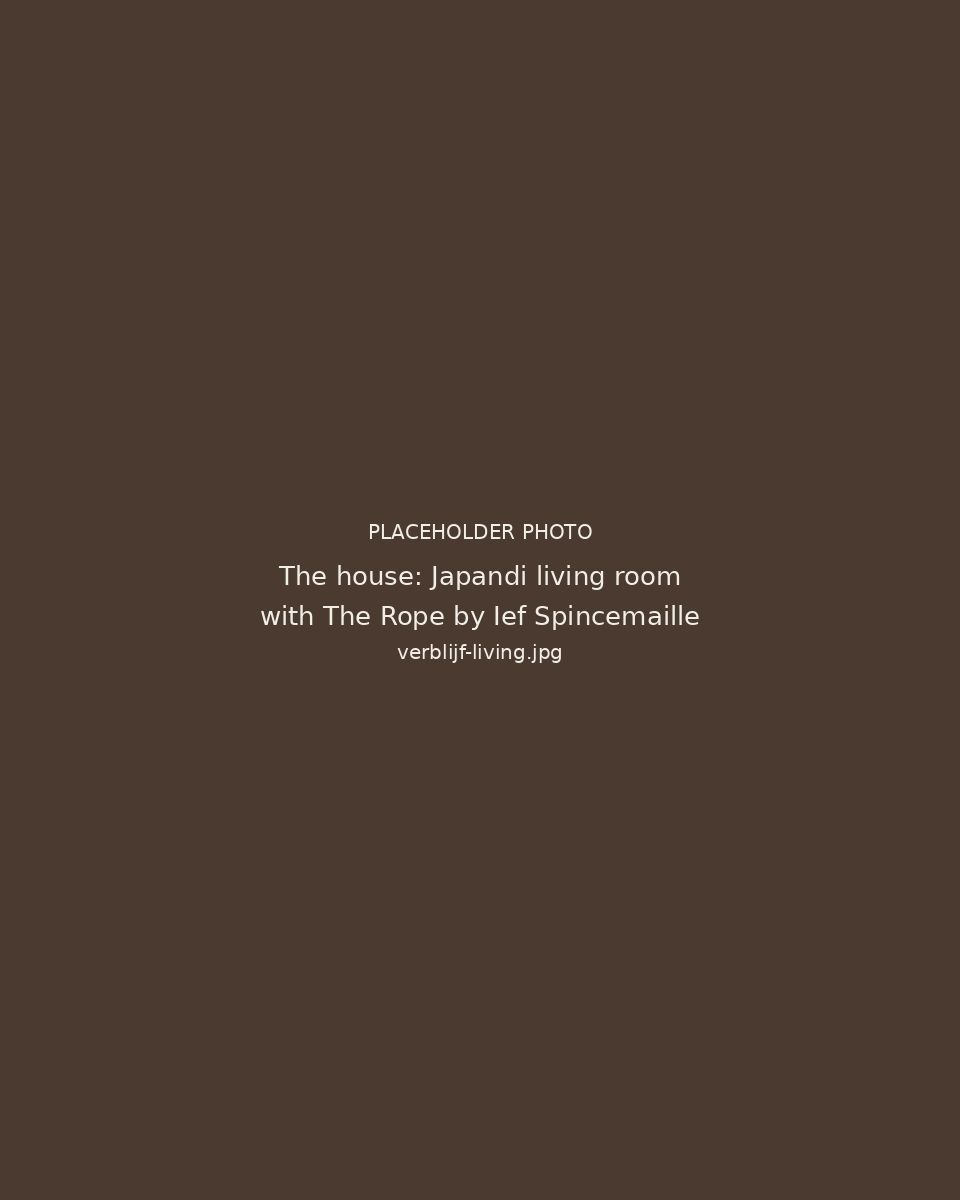
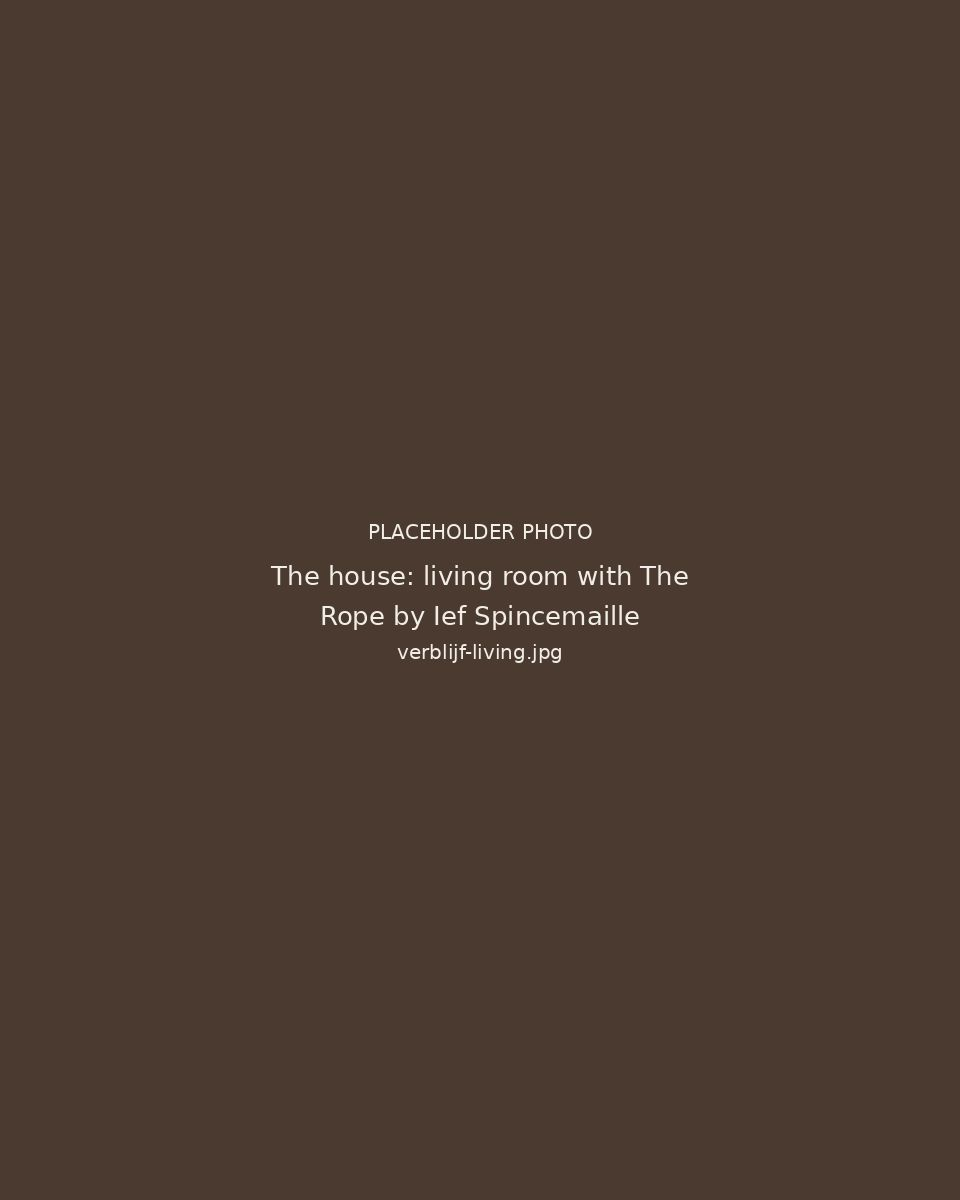
No.4 Lange Ast: regeleinden per zin, tekstschrapping in vier talen
- Eigen regel per zin(groep) op home, verblijf, dorpsleven, prijzen en contact
- Verwijderd: Japandi-interieur, opwarmtijden sauna en hottub, 'gedeeld met de eigenaars'
- Zelfde aanpassingen in EN, FR en DE

Claude-Session: https://claude.ai/code/session_01LRDJhq2EVm4Zn3FbmeFmoJ

Changed region(s): [[0.2812, 0.4625, 0.7188, 0.5242]]

diff --git a/no4-lange-ast/het-verblijf.html b/no4-lange-ast/het-verblijf.html
@@ -45,43 +45,55 @@
 
 <section class="section section--light">
   <div class="narrow">
-    <p class="lang-nl intro-text">No.4 Lange Ast is een vakantiehuis voor 8 personen, gelegen in het dorp Huise, tussen Gent en de Vlaamse Ardennen. Dit is geen afgelegen verblijf in de natuur, maar een huis midden in een dorp. Je verblijft hier tussen het dagelijkse leven: het kerkplein, wandelaars, fietsers en het ritme van het dorp. Het huis zelf is een modern, compact verblijf met drie slaapkamers, een volledig uitgeruste keuken en een gezellige leefruimte. Buiten vind je een sauna en hottub om 's avonds te ontspannen.</p>
-<p class="lang-en intro-text">No.4 Lange Ast is a holiday house for eight, in the village of Huise, between Ghent and the Flemish Ardennes. This is not a remote stay in the countryside, but a house in the middle of a village. You stay among everyday life: the church square, walkers, cyclists and the rhythm of the village. The house itself is a modern, compact stay with three bedrooms, a fully equipped kitchen and a comfortable living room. Outside you will find a sauna and hot tub to unwind in the evening.</p>
-<p class="lang-fr intro-text">No.4 Lange Ast est une maison de vacances pour huit personnes, située dans le village de Huise, entre Gand et les Ardennes flamandes. Ce n'est pas un séjour isolé en pleine nature, mais une maison au milieu d'un village. Vous séjournez ici au cœur de la vie quotidienne : la place de l'église, les promeneurs, les cyclistes et le rythme du village. La maison elle-même est un logement moderne et compact avec trois chambres, une cuisine entièrement équipée et un séjour chaleureux. À l'extérieur, un sauna et un bain nordique pour se détendre le soir.</p>
-<p class="lang-de intro-text">No.4 Lange Ast ist ein Ferienhaus für acht Personen im Dorf Huise, zwischen Gent und den Flämischen Ardennen. Es ist keine abgelegene Unterkunft in der Natur, sondern ein Haus mitten in einem Dorf. Sie wohnen hier inmitten des Alltags: der Kirchplatz, Spaziergänger, Radfahrer und der Rhythmus des Dorfes. Das Haus selbst ist eine moderne, kompakte Unterkunft mit drei Schlafzimmern, einer voll ausgestatteten Küche und einem gemütlichen Wohnraum. Draußen gibt es eine Sauna und einen Hot Tub, um abends zu entspannen.</p>
+    <p class="lang-nl intro-text">No.4 Lange Ast is een vakantiehuis voor 8 personen, gelegen in het dorp Huise, tussen Gent en de Vlaamse Ardennen.<br>
+Dit is geen afgelegen verblijf in de natuur, maar een huis midden in een dorp.<br>
+Je verblijft hier tussen het dagelijkse leven: het kerkplein, wandelaars, fietsers en het ritme van het dorp. Het huis zelf is een modern, compact verblijf met drie slaapkamers, een volledig uitgeruste keuken en een gezellige leefruimte.<br>
+Buiten vind je een sauna en hottub om 's avonds te ontspannen.</p>
+<p class="lang-en intro-text">No.4 Lange Ast is a holiday house for eight, in the village of Huise, between Ghent and the Flemish Ardennes.<br>
+This is not a remote stay in the countryside, but a house in the middle of a village.<br>
+You stay among everyday life: the church square, walkers, cyclists and the rhythm of the village. The house itself is a modern, compact stay with three bedrooms, a fully equipped kitchen and a comfortable living room.<br>
+Outside you will find a sauna and hot tub to unwind in the evening.</p>
+<p class="lang-fr intro-text">No.4 Lange Ast est une maison de vacances pour huit personnes, située dans le village de Huise, entre Gand et les Ardennes flamandes.<br>
+Ce n'est pas un séjour isolé en pleine nature, mais une maison au milieu d'un village.<br>
+Vous séjournez ici au cœur de la vie quotidienne : la place de l'église, les promeneurs, les cyclistes et le rythme du village. La maison elle-même est un logement moderne et compact avec trois chambres, une cuisine entièrement équipée et un séjour chaleureux.<br>
+À l'extérieur, un sauna et un bain nordique pour se détendre le soir.</p>
+<p class="lang-de intro-text">No.4 Lange Ast ist ein Ferienhaus für acht Personen im Dorf Huise, zwischen Gent und den Flämischen Ardennen.<br>
+Es ist keine abgelegene Unterkunft in der Natur, sondern ein Haus mitten in einem Dorf.<br>
+Sie wohnen hier inmitten des Alltags: der Kirchplatz, Spaziergänger, Radfahrer und der Rhythmus des Dorfes. Das Haus selbst ist eine moderne, kompakte Unterkunft mit drei Schlafzimmern, einer voll ausgestatteten Küche und einem gemütlichen Wohnraum.<br>
+Draußen gibt es eine Sauna und einen Hot Tub, um abends zu entspannen.</p>
   </div>
 </section>
 
 <section class="section section--sand">
   <div class="container split">
     <div class="split-media">
-      <img src="images/verblijf-living.jpg" width="1200" height="1500" loading="lazy" alt="Japandi-leefruimte met het kunstwerk The Rope van Ief Spincemaille" data-alt-nl="Japandi-leefruimte met het kunstwerk The Rope van Ief Spincemaille" data-alt-en="Japandi living room with the artwork The Rope by Ief Spincemaille" data-alt-fr="Séjour japandi avec l'œuvre The Rope d'Ief Spincemaille" data-alt-de="Japandi-Wohnraum mit dem Kunstwerk The Rope von Ief Spincemaille">
+      <img src="images/verblijf-living.jpg" width="1200" height="1500" loading="lazy" alt="Leefruimte met het kunstwerk The Rope van Ief Spincemaille" data-alt-nl="Leefruimte met het kunstwerk The Rope van Ief Spincemaille" data-alt-en="Living room with the artwork The Rope by Ief Spincemaille" data-alt-fr="Séjour avec l'œuvre The Rope d'Ief Spincemaille" data-alt-de="Wohnraum mit dem Kunstwerk The Rope von Ief Spincemaille">
     </div>
     <div class="split-text">
       <h2><span class="lang-nl">Het huis</span><span class="lang-en">The house</span><span class="lang-fr">La maison</span><span class="lang-de">Das Haus</span></h2>
 <ul class="plain-list lang-nl">
-  <li>Gebouwd in 2025 in CLT-hout, met een Japandi-interieur</li>
+  <li>Gebouwd in 2025 in CLT-hout</li>
   <li>Leefruimte met haard en vloerverwarming</li>
   <li>Drie slaapkamers, elk met eigen douche</li>
   <li>Volledig uitgeruste keuken met oven, vaatwasser en grote koelkast, plus wasmachine en droogkast</li>
   <li>In de living het kunstwerk The Rope van Ief Spincemaille</li>
 </ul>
 <ul class="plain-list lang-en">
-  <li>Built in 2025 in CLT timber, with a Japandi interior</li>
+  <li>Built in 2025 in CLT timber</li>
   <li>Living room with a wood stove and underfloor heating</li>
   <li>Three bedrooms, each with its own shower</li>
   <li>Fully equipped kitchen with an oven, dishwasher and a large fridge, plus a washing machine and dryer</li>
   <li>In the living room, the artwork The Rope by Ief Spincemaille</li>
 </ul>
 <ul class="plain-list lang-fr">
-  <li>Construite en 2025 en bois CLT, avec un intérieur japandi</li>
+  <li>Construite en 2025 en bois CLT</li>
   <li>Séjour avec poêle à bois et chauffage par le sol</li>
   <li>Trois chambres, chacune avec sa propre douche</li>
   <li>Cuisine entièrement équipée avec four, lave-vaisselle et grand réfrigérateur, ainsi qu'un lave-linge et un sèche-linge</li>
   <li>Dans le séjour, l'œuvre The Rope d'Ief Spincemaille</li>
 </ul>
 <ul class="plain-list lang-de">
-  <li>2025 aus CLT-Holz gebaut, mit Japandi-Interieur</li>
+  <li>2025 aus CLT-Holz gebaut</li>
   <li>Wohnraum mit Holzofen und Fußbodenheizung</li>
   <li>Drei Schlafzimmer, jedes mit eigener Dusche</li>
   <li>Voll ausgestattete Küche mit Backofen, Geschirrspüler und großem Kühlschrank, dazu Waschmaschine und Trockner</li>
@@ -134,27 +146,27 @@
     <div class="split-text">
       <h2><span class="lang-nl">Buiten</span><span class="lang-en">Outside</span><span class="lang-fr">Extérieur</span><span class="lang-de">Draußen</span></h2>
 <ul class="plain-list lang-nl">
-  <li>Sauna op hout, na ongeveer een uur op temperatuur</li>
-  <li>Houtgestookte hottub, na ongeveer anderhalf uur op temperatuur</li>
-  <li>Gedeeld verwarmd zwembad, open van 10 tot 22 uur, 29 graden van midden mei tot eind september, gedeeld met de eigenaars</li>
+  <li>Sauna op hout</li>
+  <li>Houtgestookte hottub</li>
+  <li>Gedeeld verwarmd zwembad, open van 10 tot 22 uur, 29 graden van midden mei tot eind september</li>
   <li>Terras en een fietsenberging met Karcher en laadpunt voor elektrische fietsen</li>
 </ul>
 <ul class="plain-list lang-en">
-  <li>Wood-burning sauna, ready after about an hour</li>
-  <li>Wood-fired hot tub, ready after about an hour and a half</li>
-  <li>Shared heated pool, open from 10 am to 10 pm, 29 degrees from mid May to the end of September, shared with the owners</li>
+  <li>Wood-burning sauna</li>
+  <li>Wood-fired hot tub</li>
+  <li>Shared heated pool, open from 10 am to 10 pm, 29 degrees from mid May to the end of September</li>
   <li>Terrace and a bike store with a Karcher and a charging point for e-bikes</li>
 </ul>
 <ul class="plain-list lang-fr">
-  <li>Sauna au bois, à température après environ une heure</li>
-  <li>Bain nordique chauffé au bois, à température après environ une heure et demie</li>
-  <li>Piscine chauffée partagée, ouverte de 10 à 22 heures, 29 degrés de mi-mai à fin septembre, partagée avec les propriétaires</li>
+  <li>Sauna au bois</li>
+  <li>Bain nordique chauffé au bois</li>
+  <li>Piscine chauffée partagée, ouverte de 10 à 22 heures, 29 degrés de mi-mai à fin septembre</li>
   <li>Terrasse et local à vélos avec Karcher et point de recharge pour vélos électriques</li>
 </ul>
 <ul class="plain-list lang-de">
-  <li>Holzsauna, nach etwa einer Stunde auf Temperatur</li>
-  <li>Holzbefeuerter Hot Tub, nach etwa anderthalb Stunden auf Temperatur</li>
-  <li>Gemeinsam genutzter beheizter Pool, geöffnet von 10 bis 22 Uhr, 29 Grad von Mitte Mai bis Ende September, gemeinsam mit den Eigentümern genutzt</li>
+  <li>Holzsauna</li>
+  <li>Holzbefeuerter Hot Tub</li>
+  <li>Gemeinsam genutzter beheizter Pool, geöffnet von 10 bis 22 Uhr, 29 Grad von Mitte Mai bis Ende September</li>
   <li>Terrasse und Fahrradraum mit Karcher und Ladepunkt für E-Bikes</li>
 </ul>
     </div>

diff --git a/no4-lange-ast/village-life.html b/no4-lange-ast/village-life.html
@@ -50,10 +50,22 @@
     </div>
     <div class="split-text">
       <h2><span class="lang-nl">Het leven in Huise</span><span class="lang-en">Life in Huise</span><span class="lang-fr">La vie à Huise</span><span class="lang-de">Das Leben in Huise</span></h2>
-      <p class="lang-nl">Je zit midden in Huise, een echt Vlaams dorp in Kruisem. Een kerkplein, een cafe, een voetbalploeg en een jeugdvereniging. Het leven gaat hier gewoon door. Dit is geen resort en geen afgelegen plek in de natuur, maar een huis in de kern van een levend dorp.</p>
-<p class="lang-en">You are in the middle of Huise, a real Flemish village in Kruisem. A church square, a cafe, a football club and a youth club. Life here simply carries on. This is not a resort and not a remote spot in the countryside, but a house in the heart of a living village.</p>
-<p class="lang-fr">Vous êtes au cœur de Huise, un vrai village flamand à Kruisem. Une place de l'église, un café, un club de football et un mouvement de jeunesse. Ici, la vie suit simplement son cours. Ce n'est pas un resort ni un lieu isolé en pleine nature, mais une maison au centre d'un village vivant.</p>
-<p class="lang-de">Sie sind mitten in Huise, einem echten flämischen Dorf in Kruisem. Ein Kirchplatz, ein Café, ein Fußballverein und ein Jugendverein. Das Leben geht hier einfach weiter. Dies ist kein Resort und kein abgelegener Ort in der Natur, sondern ein Haus im Kern eines lebendigen Dorfes.</p>
+      <p class="lang-nl">Je zit midden in Huise, een echt Vlaams dorp in Kruisem.<br>
+Een kerkplein, een cafe, een voetbalploeg en een jeugdvereniging.<br>
+Het leven gaat hier gewoon door.<br>
+Dit is geen resort en geen afgelegen plek in de natuur, maar een huis in de kern van een levend dorp.</p>
+<p class="lang-en">You are in the middle of Huise, a real Flemish village in Kruisem.<br>
+A church square, a cafe, a football club and a youth club.<br>
+Life here simply carries on.<br>
+This is not a resort and not a remote spot in the countryside, but a house in the heart of a living village.</p>
+<p class="lang-fr">Vous êtes au cœur de Huise, un vrai village flamand à Kruisem.<br>
+Une place de l'église, un café, un club de football et un mouvement de jeunesse.<br>
+Ici, la vie suit simplement son cours.<br>
+Ce n'est pas un resort ni un lieu isolé en pleine nature, mais une maison au centre d'un village vivant.</p>
+<p class="lang-de">Sie sind mitten in Huise, einem echten flämischen Dorf in Kruisem.<br>
+Ein Kirchplatz, ein Café, ein Fußballverein und ein Jugendverein.<br>
+Das Leben geht hier einfach weiter.<br>
+Dies ist kein Resort und kein abgelegener Ort in der Natur, sondern ein Haus im Kern eines lebendigen Dorfes.</p>
     </div>
   </div>
 </section>
@@ -65,10 +77,22 @@
     </div>
     <div class="split-text">
       <h2><span class="lang-nl">Het dorp</span><span class="lang-en">The village</span><span class="lang-fr">Le village</span><span class="lang-de">Das Dorf</span></h2>
-      <p class="lang-nl">Je wordt wakker met het geluid van het dorp. Wandelaars en fietsers passeren, de bakker en het cafe zijn dichtbij. Gent ligt op 20 minuten wanneer je de stad wil. Je verblijft tussen het dagelijkse leven, op je eigen tempo.</p>
-<p class="lang-en">You wake up to the sound of the village. Walkers and cyclists pass by, the baker and the cafe are close. Ghent is twenty minutes away when you want the city. You stay among everyday life, at your own pace.</p>
-<p class="lang-fr">Vous vous réveillez au son du village. Promeneurs et cyclistes passent, la boulangerie et le café sont tout proches. Gand est à 20 minutes quand vous avez envie de ville. Vous séjournez au milieu de la vie quotidienne, à votre rythme.</p>
-<p class="lang-de">Sie wachen mit den Geräuschen des Dorfes auf. Spaziergänger und Radfahrer ziehen vorbei, Bäcker und Café sind ganz nah. Gent liegt 20 Minuten entfernt, wenn Sie in die Stadt möchten. Sie wohnen mitten im Alltag, in Ihrem eigenen Tempo.</p>
+      <p class="lang-nl">Je wordt wakker met het geluid van het dorp.<br>
+Wandelaars en fietsers passeren, de bakker en het cafe zijn dichtbij.<br>
+Gent ligt op 20 minuten wanneer je de stad wil.<br>
+Je verblijft tussen het dagelijkse leven, op je eigen tempo.</p>
+<p class="lang-en">You wake up to the sound of the village.<br>
+Walkers and cyclists pass by, the baker and the cafe are close.<br>
+Ghent is twenty minutes away when you want the city.<br>
+You stay among everyday life, at your own pace.</p>
+<p class="lang-fr">Vous vous réveillez au son du village.<br>
+Promeneurs et cyclistes passent, la boulangerie et le café sont tout proches.<br>
+Gand est à 20 minutes quand vous avez envie de ville.<br>
+Vous séjournez au milieu de la vie quotidienne, à votre rythme.</p>
+<p class="lang-de">Sie wachen mit den Geräuschen des Dorfes auf.<br>
+Spaziergänger und Radfahrer ziehen vorbei, Bäcker und Café sind ganz nah.<br>
+Gent liegt 20 Minuten entfernt, wenn Sie in die Stadt möchten.<br>
+Sie wohnen mitten im Alltag, in Ihrem eigenen Tempo.</p>
     </div>
   </div>
 </section>

diff --git a/no4-lange-ast/index.html b/no4-lange-ast/index.html
@@ -51,10 +51,42 @@
 
 <section class="section section--light center">
   <div class="narrow">
-    <p class="lang-nl intro-text">No.4 Lange Ast is geen vakantiewoning in de natuur. Het is een huis in een dorp. Een plek waar het leven gewoon doorgaat. Waar mensen elkaar groeten op straat en de dag vanzelf begint. Je wordt hier wakker en het dorp is al bezig. Je trekt erop uit, te voet of met de fiets, richting Gent of de Vlaamse Ardennen. Of je blijft gewoon even hangen. En 's avonds kom je terug. De sauna warmt op. Het dorp valt stil. Een eenvoudig verblijf, midden in het leven.</p>
-<p class="lang-en intro-text">No.4 Lange Ast is not a holiday home in the countryside. It is a house in a village. A place where life simply carries on. Where people greet each other in the street and the day begins on its own. You wake up here and the village is already going. You head out, on foot or by bike, towards Ghent or the Flemish Ardennes. Or you just stay a while. And in the evening you come back. The sauna heats up. The village falls quiet. A simple stay, right in the middle of life.</p>
-<p class="lang-fr intro-text">No.4 Lange Ast n'est pas une maison de vacances en pleine nature. C'est une maison dans un village. Un endroit où la vie suit simplement son cours. Où les gens se saluent dans la rue et où la journée commence d'elle-même. Vous vous réveillez ici et le village est déjà en mouvement. Vous partez, à pied ou à vélo, vers Gand ou les Ardennes flamandes. Ou vous restez simplement un moment. Et le soir, vous rentrez. Le sauna chauffe. Le village se tait. Un séjour simple, au milieu de la vie.</p>
-<p class="lang-de intro-text">No.4 Lange Ast ist kein Ferienhaus in der Natur. Es ist ein Haus in einem Dorf. Ein Ort, an dem das Leben einfach weitergeht. Wo man sich auf der Straße grüßt und der Tag von selbst beginnt. Sie wachen hier auf und das Dorf ist schon in Bewegung. Sie ziehen los, zu Fuß oder mit dem Rad, Richtung Gent oder in die Flämischen Ardennen. Oder Sie bleiben einfach eine Weile. Und abends kommen Sie zurück. Die Sauna heizt auf. Das Dorf wird still. Ein einfacher Aufenthalt, mitten im Leben.</p>
+    <p class="lang-nl intro-text">No.4 Lange Ast is geen vakantiewoning in de natuur.<br>
+Het is een huis in een dorp. Een plek waar het leven gewoon doorgaat.<br>
+Waar mensen elkaar groeten op straat en de dag vanzelf begint.<br>
+Je wordt hier wakker en het dorp is al bezig.<br>
+Je trekt erop uit, te voet of met de fiets, richting Gent of de Vlaamse Ardennen.<br>
+Of je blijft gewoon even hangen.<br>
+En 's avonds kom je terug. De sauna warmt op.<br>
+Het dorp valt stil.<br>
+Een eenvoudig verblijf, midden in het leven.</p>
+<p class="lang-en intro-text">No.4 Lange Ast is not a holiday home in the countryside.<br>
+It is a house in a village. A place where life simply carries on.<br>
+Where people greet each other in the street and the day begins on its own.<br>
+You wake up here and the village is already going.<br>
+You head out, on foot or by bike, towards Ghent or the Flemish Ardennes.<br>
+Or you just stay a while.<br>
+And in the evening you come back. The sauna heats up.<br>
+The village falls quiet.<br>
+A simple stay, right in the middle of life.</p>
+<p class="lang-fr intro-text">No.4 Lange Ast n'est pas une maison de vacances en pleine nature.<br>
+C'est une maison dans un village. Un endroit où la vie suit simplement son cours.<br>
+Où les gens se saluent dans la rue et où la journée commence d'elle-même.<br>
+Vous vous réveillez ici et le village est déjà en mouvement.<br>
+Vous partez, à pied ou à vélo, vers Gand ou les Ardennes flamandes.<br>
+Ou vous restez simplement un moment.<br>
+Et le soir, vous rentrez. Le sauna chauffe.<br>
+Le village se tait.<br>
+Un séjour simple, au milieu de la vie.</p>
+<p class="lang-de intro-text">No.4 Lange Ast ist kein Ferienhaus in der Natur.<br>
+Es ist ein Haus in einem Dorf. Ein Ort, an dem das Leben einfach weitergeht.<br>
+Wo man sich auf der Straße grüßt und der Tag von selbst beginnt.<br>
+Sie wachen hier auf und das Dorf ist schon in Bewegung.<br>
+Sie ziehen los, zu Fuß oder mit dem Rad, Richtung Gent oder in die Flämischen Ardennen.<br>
+Oder Sie bleiben einfach eine Weile.<br>
+Und abends kommen Sie zurück. Die Sauna heizt auf.<br>
+Das Dorf wird still.<br>
+Ein einfacher Aufenthalt, mitten im Leben.</p>
   </div>
 </section>
 

diff --git a/no4-lange-ast/contact.html b/no4-lange-ast/contact.html
@@ -46,10 +46,18 @@
 <section class="section section--light">
   <div class="narrow">
     <h2><span class="lang-nl">Neem contact op</span><span class="lang-en">Get in touch</span><span class="lang-fr">Nous contacter</span><span class="lang-de">Kontakt aufnehmen</span></h2>
-    <p class="lang-nl">Op zoek naar meer info of heb je een specifieke vraag? Wil je de beschikbaarheid checken of een aanvraag doen? Neem contact op.</p>
-<p class="lang-en">Looking for more information, or do you have a specific question? Want to check availability or send a request? Get in touch.</p>
-<p class="lang-fr">Vous cherchez plus d'informations ou vous avez une question précise ? Vous voulez vérifier les disponibilités ou faire une demande ? Contactez-nous.</p>
-<p class="lang-de">Sie suchen weitere Informationen oder haben eine konkrete Frage? Sie möchten die Verfügbarkeit prüfen oder eine Anfrage stellen? Nehmen Sie Kontakt auf.</p>
+    <p class="lang-nl">Op zoek naar meer info of heb je een specifieke vraag?<br>
+Wil je de beschikbaarheid checken of een aanvraag doen?<br>
+Neem contact op.</p>
+<p class="lang-en">Looking for more information, or do you have a specific question?<br>
+Want to check availability or send a request?<br>
+Get in touch.</p>
+<p class="lang-fr">Vous cherchez plus d'informations ou vous avez une question précise ?<br>
+Vous voulez vérifier les disponibilités ou faire une demande ?<br>
+Contactez-nous.</p>
+<p class="lang-de">Sie suchen weitere Informationen oder haben eine konkrete Frage?<br>
+Sie möchten die Verfügbarkeit prüfen oder eine Anfrage stellen?<br>
+Nehmen Sie Kontakt auf.</p>
     <ul class="contact-details">
       <li>Bruno Schaubroeck</li>
       <li>Lange Aststraat 4a, 9750 Huise (Kruisem), <span class="lang-nl">België</span><span class="lang-en">Belgium</span><span class="lang-fr">Belgique</span><span class="lang-de">Belgien</span></li>

diff --git a/no4-lange-ast/prijzen.html b/no4-lange-ast/prijzen.html
@@ -50,10 +50,14 @@
 <p class="lang-fr price">À partir de 550 euros par nuit. Minimum deux nuits.</p>
 <p class="lang-de price">Ab 550 Euro pro Nacht. Mindestens zwei Nächte.</p>
     <hr class="divider">
-    <p class="lang-nl">Schoonmaak inbegrepen. Toeristenbelasting inbegrepen. Voor langere verblijven of specifieke data, neem contact op.</p>
-<p class="lang-en">Cleaning included. Tourist tax included. For longer stays or specific dates, get in touch.</p>
-<p class="lang-fr">Ménage inclus. Taxe de séjour incluse. Pour des séjours plus longs ou des dates précises, contactez-nous.</p>
-<p class="lang-de">Endreinigung inbegriffen. Kurtaxe inbegriffen. Für längere Aufenthalte oder bestimmte Termine nehmen Sie Kontakt auf.</p>
+    <p class="lang-nl">Schoonmaak inbegrepen. Toeristenbelasting inbegrepen.<br>
+Voor langere verblijven of specifieke data, neem contact op.</p>
+<p class="lang-en">Cleaning included. Tourist tax included.<br>
+For longer stays or specific dates, get in touch.</p>
+<p class="lang-fr">Ménage inclus. Taxe de séjour incluse.<br>
+Pour des séjours plus longs ou des dates précises, contactez-nous.</p>
+<p class="lang-de">Endreinigung inbegriffen. Kurtaxe inbegriffen.<br>
+Für längere Aufenthalte oder bestimmte Termine nehmen Sie Kontakt auf.</p>
   </div>
 
   <!-- PRICE TABLE. Replace every [prijs] with the amount, for example 550 euro. See README.txt. -->
